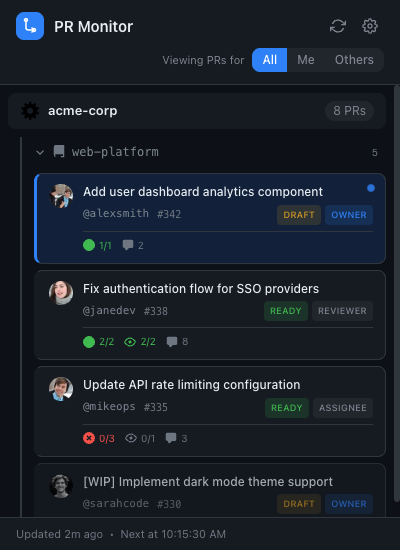
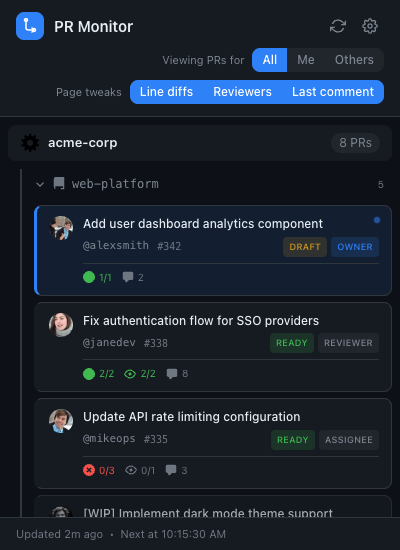
Refresh README screenshots for the PR page tweaks
The popup and settings shots predated the new toggles; the PR list shots show the tweaks on a public repo so the README doesn't expose switch-rails.

diff --git a/screenshots/settings-mock-light.html b/screenshots/settings-mock-light.html
@@ -86,6 +86,7 @@
                       <li>• <code class="code">Pull requests</code> → Read-only</li>
                       <li>• <code class="code">Commit statuses</code> → Read-only (for CI status)</li>
                       <li>• <code class="code">Actions</code> → Read-only (for GitHub Actions status)</li>
+                      <li>• <code class="code">Contents</code> → Read-only (to spot new commits since your review)</li>
                       <li>• <code class="code">Metadata</code> → Read-only</li>
                     </ul>
                   </li>
@@ -310,6 +311,40 @@
         <p class="text-xs text-muted mt-4">Configure notification types per-repo using the Alerts button above.</p>
       </div>
 
+      <!-- Pull Request Page Card -->
+      <div class="card">
+        <h2 class="text-base font-semibold flex items-center gap-2 mb-4">
+          <span class="accent-bar"></span>
+          Pull request page
+        </h2>
+
+        <div class="space-y-3">
+          <label class="flex items-start gap-3 cursor-pointer">
+            <input type="checkbox" class="checkbox mt-0.5" checked>
+            <span>
+              <span class="block text-sm font-medium">Line diffs</span>
+              <span class="block text-xs text-muted">Show +additions −deletions on each PR</span>
+            </span>
+          </label>
+          <label class="flex items-start gap-3 cursor-pointer">
+            <input type="checkbox" class="checkbox mt-0.5" checked>
+            <span>
+              <span class="block text-sm font-medium">Reviewers</span>
+              <span class="block text-xs text-muted">Show reviewers instead of assignees and highlight PRs awaiting your review, including new commits since you commented or requested changes</span>
+            </span>
+          </label>
+          <label class="flex items-start gap-3 cursor-pointer">
+            <input type="checkbox" class="checkbox mt-0.5" checked>
+            <span>
+              <span class="block text-sm font-medium">Last comment</span>
+              <span class="block text-xs text-muted">Show when the latest comment or review was left</span>
+            </span>
+          </label>
+        </div>
+
+        <p class="text-xs text-muted mt-4">Applies to the pull request list of monitored repositories. Changes save immediately.</p>
+      </div>
+
       <!-- Save Button -->
       <div class="flex items-center gap-4 pt-2">
         <button type="button" id="save-btn" class="btn-primary px-6 py-3 font-semibold">
@@ -325,7 +360,7 @@
 
     <!-- Footer -->
     <footer class="text-center mt-12 pt-6 border-t border-color">
-      <p class="text-xs text-muted">GitHub PR Monitor v1.0.0</p>
+      <p class="text-xs text-muted">GitHub PR Monitor v1.1.0</p>
       <p class="text-xs text-muted mt-1">
         Maintained by <a href="https://github.com/Kcharle" target="_blank" class="text-accent hover:underline">@Kcharle</a>
       </p>

diff --git a/screenshots/settings-mock.html b/screenshots/settings-mock.html
@@ -86,6 +86,7 @@
                       <li>• <code class="code">Pull requests</code> → Read-only</li>
                       <li>• <code class="code">Commit statuses</code> → Read-only (for CI status)</li>
                       <li>• <code class="code">Actions</code> → Read-only (for GitHub Actions status)</li>
+                      <li>• <code class="code">Contents</code> → Read-only (to spot new commits since your review)</li>
                       <li>• <code class="code">Metadata</code> → Read-only</li>
                     </ul>
                   </li>
@@ -310,6 +311,40 @@
         <p class="text-xs text-muted mt-4">Configure notification types per-repo using the Alerts button above.</p>
       </div>
 
+      <!-- Pull Request Page Card -->
+      <div class="card">
+        <h2 class="text-base font-semibold flex items-center gap-2 mb-4">
+          <span class="accent-bar"></span>
+          Pull request page
+        </h2>
+
+        <div class="space-y-3">
+          <label class="flex items-start gap-3 cursor-pointer">
+            <input type="checkbox" class="checkbox mt-0.5" checked>
+            <span>
+              <span class="block text-sm font-medium">Line diffs</span>
+              <span class="block text-xs text-muted">Show +additions −deletions on each PR</span>
+            </span>
+          </label>
+          <label class="flex items-start gap-3 cursor-pointer">
+            <input type="checkbox" class="checkbox mt-0.5" checked>
+            <span>
+              <span class="block text-sm font-medium">Reviewers</span>
+              <span class="block text-xs text-muted">Show reviewers instead of assignees and highlight PRs awaiting your review, including new commits since you commented or requested changes</span>
+            </span>
+          </label>
+          <label class="flex items-start gap-3 cursor-pointer">
+            <input type="checkbox" class="checkbox mt-0.5" checked>
+            <span>
+              <span class="block text-sm font-medium">Last comment</span>
+              <span class="block text-xs text-muted">Show when the latest comment or review was left</span>
+            </span>
+          </label>
+        </div>
+
+        <p class="text-xs text-muted mt-4">Applies to the pull request list of monitored repositories. Changes save immediately.</p>
+      </div>
+
       <!-- Save Button -->
       <div class="flex items-center gap-4 pt-2">
         <button type="button" id="save-btn" class="btn-primary px-6 py-3 font-semibold">
@@ -325,7 +360,7 @@
 
     <!-- Footer -->
     <footer class="text-center mt-12 pt-6 border-t border-color">
-      <p class="text-xs text-muted">GitHub PR Monitor v1.0.0</p>
+      <p class="text-xs text-muted">GitHub PR Monitor v1.1.0</p>
       <p class="text-xs text-muted mt-1">
         Maintained by <a href="https://github.com/Kcharle" target="_blank" class="text-accent hover:underline">@Kcharle</a>
       </p>

diff --git a/screenshots/popup-mock-light.html b/screenshots/popup-mock-light.html
@@ -67,6 +67,14 @@
           <button class="filter-btn" data-filter="others" title="Show PRs I'm reviewing">Others</button>
         </div>
       </div>
+      <div class="header-bottom">
+        <span class="filter-label">Page tweaks</span>
+        <div class="filter-toggle">
+          <button class="filter-btn active">Line diffs</button>
+          <button class="filter-btn active">Reviewers</button>
+          <button class="filter-btn active">Last comment</button>
+        </div>
+      </div>
     </header>
 
     <main>

diff --git a/screenshots/popup-mock.html b/screenshots/popup-mock.html
@@ -67,6 +67,14 @@
           <button class="filter-btn" data-filter="others" title="Show PRs I'm reviewing">Others</button>
         </div>
       </div>
+      <div class="header-bottom">
+        <span class="filter-label">Page tweaks</span>
+        <div class="filter-toggle">
+          <button class="filter-btn active">Line diffs</button>
+          <button class="filter-btn active">Reviewers</button>
+          <button class="filter-btn active">Last comment</button>
+        </div>
+      </div>
     </header>
 
     <main>

diff --git a/README.md b/README.md
@@ -31,6 +31,14 @@ A Chrome extension that monitors GitHub pull requests where you're a reviewer, a
 |-------|----------|
 | ![Popup Dark](screenshots/popup-dark.png) | ![Settings Dark](screenshots/settings-dark.png) |
 
+### Pull Request Page Tweaks
+
+All three tweaks on [kubernetes/kubernetes](https://github.com/kubernetes/kubernetes/pulls): line diffs and last-comment time on the meta line, reviewer avatars with review-state dots in place of assignees, and amber rows awaiting the signed-in user's review.
+
+![PR list tweaks, light](screenshots/pr-list.png)
+
+![PR list tweaks, dark](screenshots/pr-list-dark.png)
+
 ## Installation
 
 ### For Users (Quick Install)
